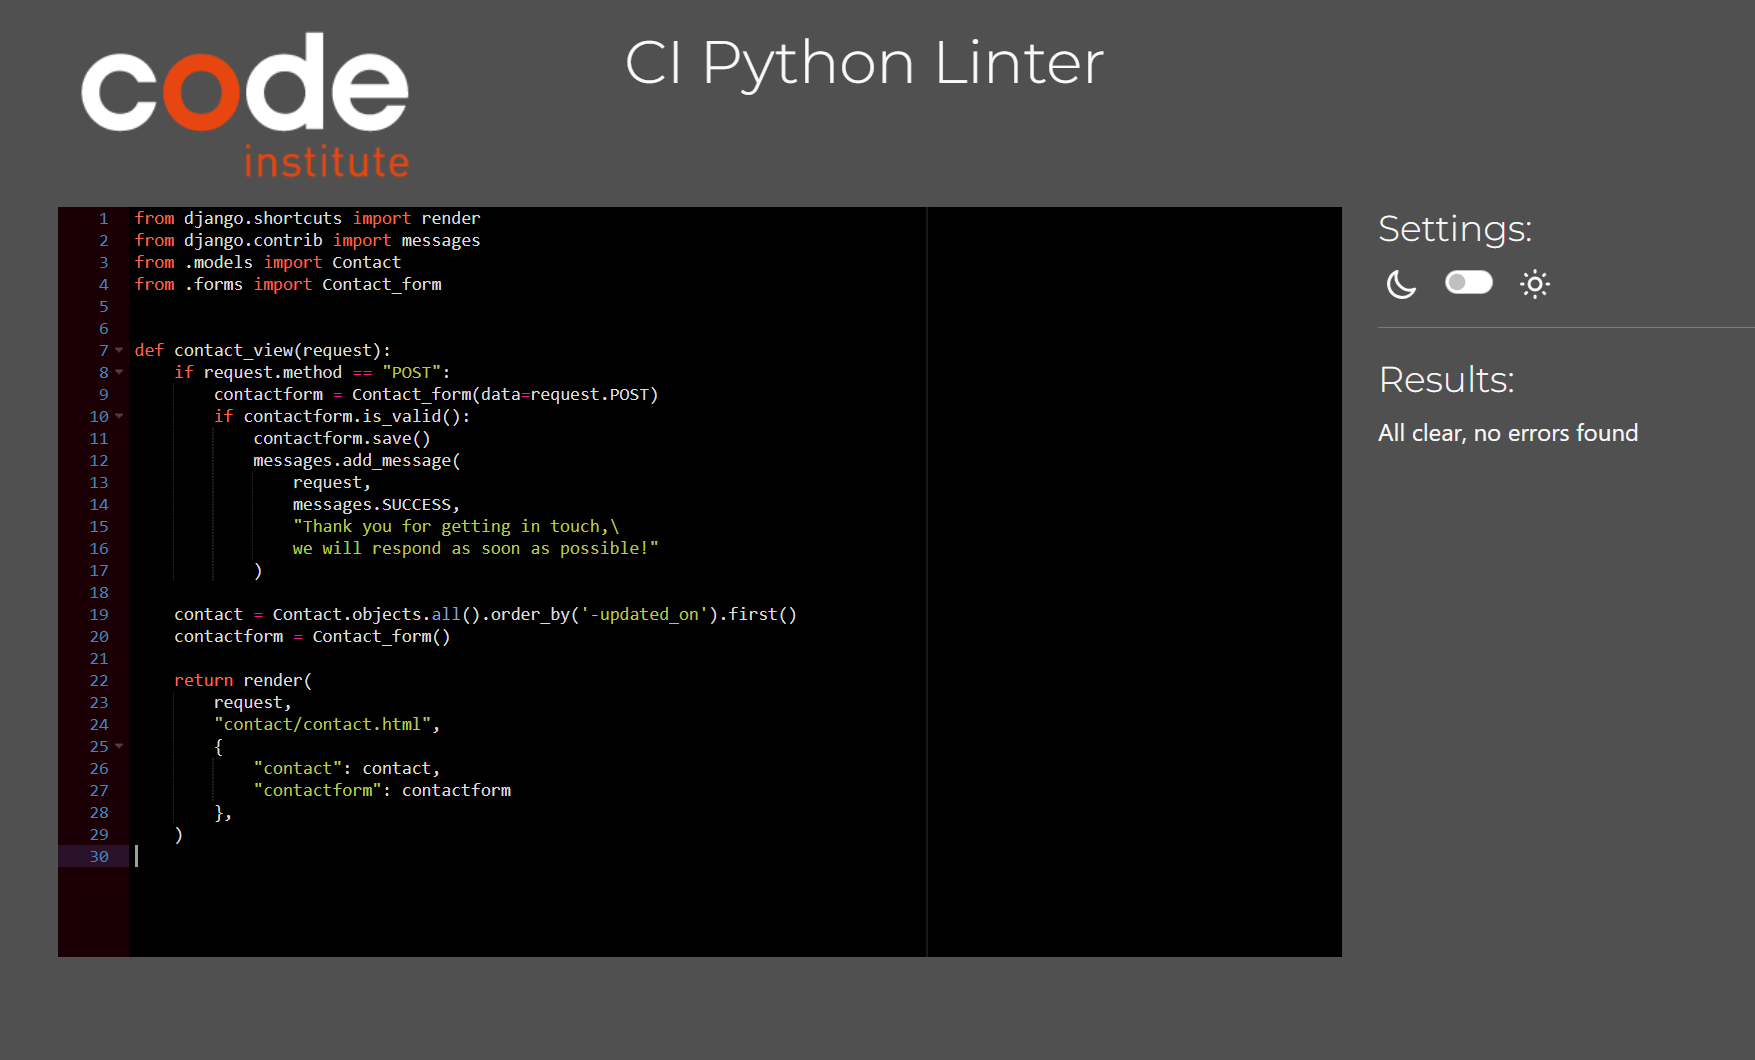
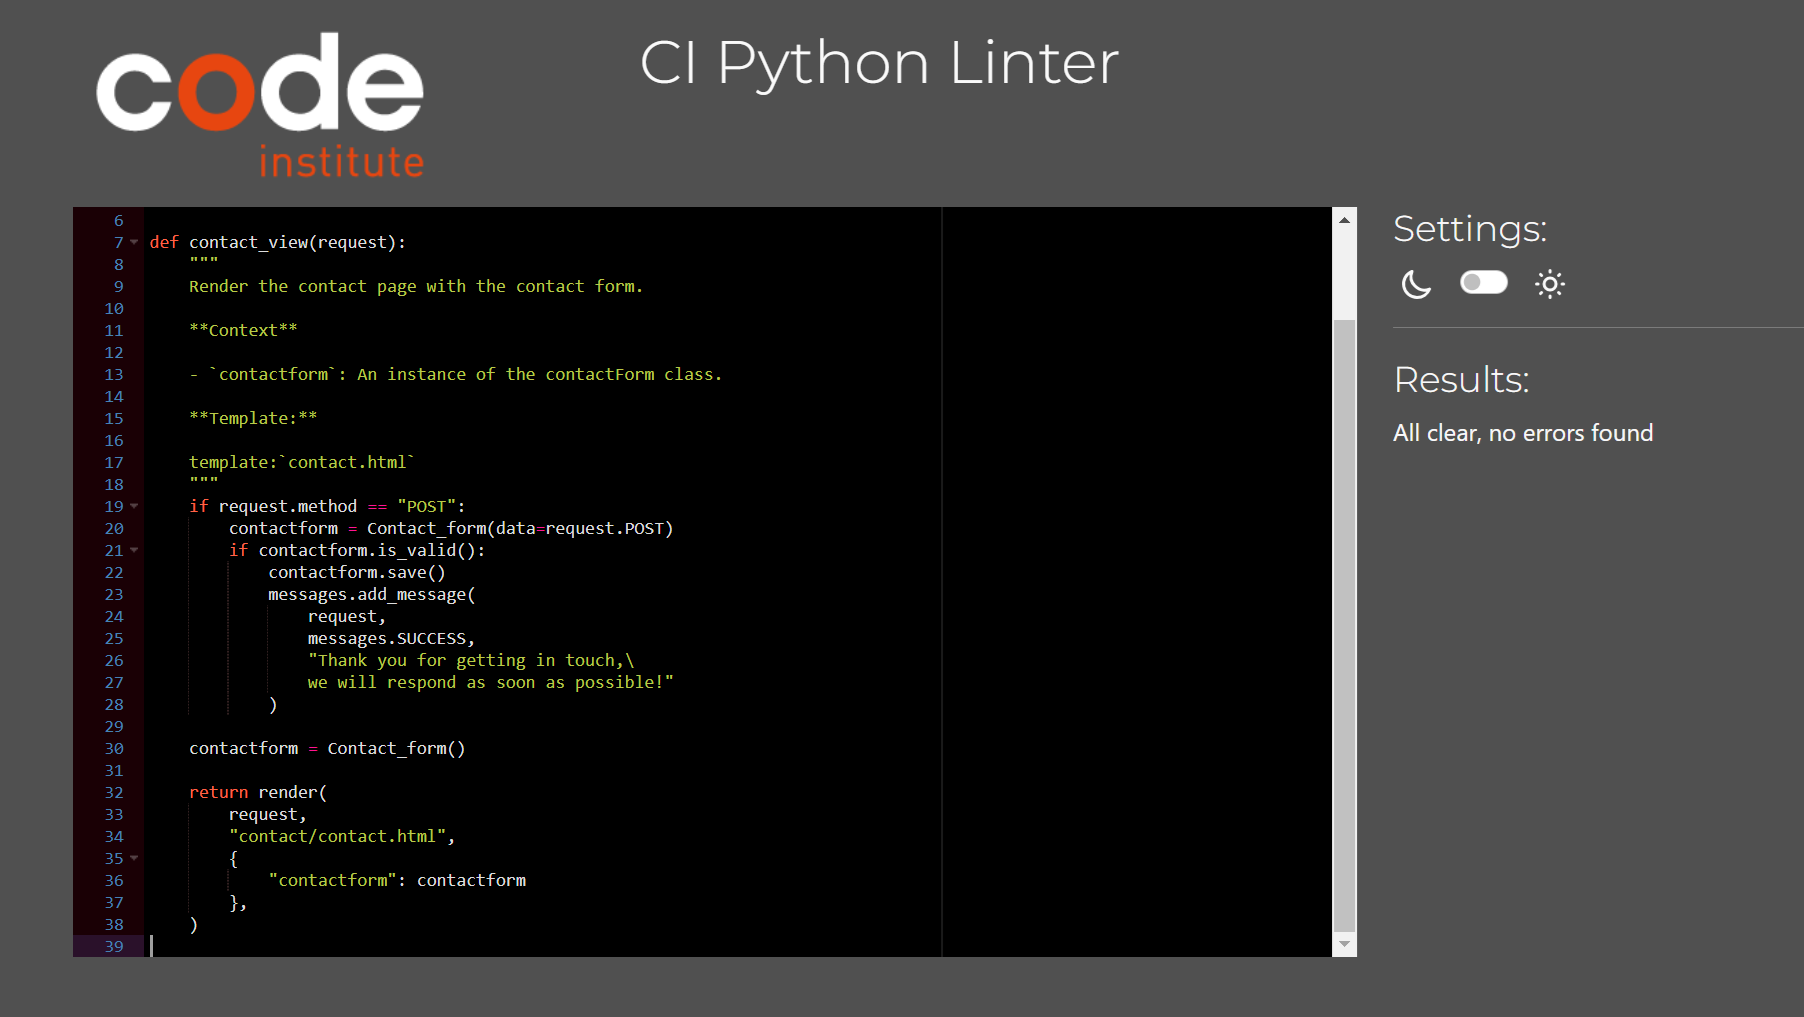
TESTING.md structuring and clear up, minor change contact app models.py unneeded variable removed

Changed region(s): [[0.0308, 0.0305, 0.9538, 0.9449], [0.3385, 0.0305, 0.6154, 0.0914], [0.3385, 0.5792, 0.3692, 0.6096]]

diff --git a/contact/views.py b/contact/views.py
@@ -5,6 +5,17 @@ from .forms import Contact_form
 
 
 def contact_view(request):
+    """
+    Render the contact page with the contact form.
+
+    **Context**
+
+    - `contactform`: An instance of the contactForm class.
+
+    **Template:**
+
+    template:`contact.html`
+    """
     if request.method == "POST":
         contactform = Contact_form(data=request.POST)
         if contactform.is_valid():
@@ -16,14 +27,12 @@ def contact_view(request):
                 we will respond as soon as possible!"
             )
 
-    contact = Contact.objects.all().order_by('-updated_on').first()
     contactform = Contact_form()
 
     return render(
         request,
         "contact/contact.html",
         {
-            "contact": contact,
             "contactform": contactform
         },
     )

diff --git a/contact/models.py b/contact/models.py
@@ -3,6 +3,11 @@ from django.db import models
 # Create your models here.
 
 class Contact(models.Model):
+    """
+    A simple model designed
+    to hold information about user
+    messages.
+    """
     title = models.CharField(max_length=200)
     updated_on = models.DateTimeField(auto_now=True)
     content = models.TextField()

diff --git a/README.md b/README.md
@@ -122,7 +122,7 @@ With MyWay, we aim to make everyday interactions smoother and more meaningful fo
     - As a user, I want to select up to 3 images from the gallery to showcase in a special section.
     
     1. Acceptance criteria : A section is available with empty image slots for communication.
-    2. Acceptance criteria : When the slots are clicked the images tore is available to choose desired image from. 
+    2. Acceptance criteria : When the slots are clicked the image store is available to choose desired image from. 
 
 * User story 5: 
 
